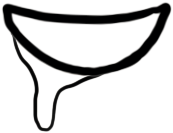
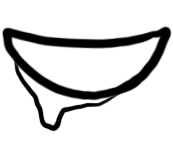
P1: made victoryHamburger get eaten by Fwoggy when inside its mouth

diff --git a/projects/project1/js/Fwoggies/VictoryFwoggy.js b/projects/project1/js/Fwoggies/VictoryFwoggy.js
@@ -3,9 +3,12 @@
 class VictoryFwoggy {
   constructor(fwoggyImages, mouthImages) {
     // fwoggy images array (mouthless)
-    this.fwoggyImages = fwoggyImages;
+    this.images = fwoggyImages;
     // index of fwoggy images array
-    this.fwoggyImageIndex = 3;
+    this.imageIndex = 3;
+    // frames elapsed for image animation
+    this.framesElapsed = 0;
+    this.framesBtwEachImage = 20;
     // image size
     this.width = 615;
     this.height = 624;
@@ -18,11 +21,31 @@ class VictoryFwoggy {
       // Fwoggy's mouth images
       images: mouthImages,
       // image index for mouth images
-      imageIndex: 0,
-      // position offset from this.x and this.y
-      xOffset: -10,
-      yOffset: 30,
+      imageIndex: 1,
+      // position
+      x: this.x - 10,
+      y: this.y + 30,
+      // size
+      width: 176,
+      height: 157,
     };
+  }
+
+  // Update all behaviour of fwoggy
+  update(mouse, victoryHamburger) {
+    // Display image
+    this.display();
+
+    // Switch images
+    this.switchImages(mouse, victoryHamburger);
+
+    // if mouth is open and hamburger overlaps with mouth, eat hamburger
+    if (
+      this.mouth.imageIndex === 2 &&
+      this.overlapsWith(victoryHamburger, this.mouth)
+    ) {
+      victoryHamburger.isEaten = true;
+    }
   }
 
   // Reset Fwoggy's variables
@@ -31,10 +54,34 @@ class VictoryFwoggy {
     // this.theta.current = 0;
   }
 
-  // Update all behaviour of fwoggy
-  update(cat) {
-    // Display image
-    this.display();
+  // Swith images depending
+  switchImages(mouse) {
+    // Body animation (does not include mouth)
+    this.framesElapsed++;
+    if (this.framesElapsed === this.framesBtwEachImage) {
+      if (this.imageIndex === 3) {
+        this.imageIndex = 4;
+      } else {
+        this.imageIndex = 3;
+      }
+
+      // Mouth animation
+      // if mouse hovers over body, open the mouth
+      if (this.overlapsWith(mouse, this)) {
+        this.mouth.imageIndex = 2;
+      }
+      // or else, saliva in mouth
+      else {
+        if (this.framesElapsed === this.framesBtwEachImage) {
+          if (this.mouth.imageIndex === 0) {
+            this.mouth.imageIndex = 1;
+          } else {
+            this.mouth.imageIndex = 0;
+          }
+        }
+      }
+      this.framesElapsed = 0;
+    }
   }
 
   // Display Fwoggy
@@ -42,16 +89,26 @@ class VictoryFwoggy {
     push();
     // Fwoggy's body (everything except mouth)
     imageMode(CENTER);
-    image(this.fwoggyImages[this.fwoggyImageIndex], this.x, this.y);
+    image(this.images[this.imageIndex], this.x, this.y);
 
     // Fwoggy's mouth
     imageMode(CENTER);
-    image(
-      this.mouth.images[this.mouth.imageIndex],
-      this.x + this.mouth.xOffset,
-      this.y + this.mouth.yOffset
-    );
+    image(this.mouth.images[this.mouth.imageIndex], this.mouth.x, this.mouth.y);
     pop();
+  }
+
+  // Return true if object1 is inside object 2
+  overlapsWith(object1, object2) {
+    if (
+      object1.x > object2.x - object2.width / 2 &&
+      object1.x < object2.x + object2.width / 2 &&
+      object1.y > object2.y - object2.height / 2 &&
+      object1.y < object2.y + object2.height / 2
+    ) {
+      return true;
+    } else {
+      return false;
+    }
   }
 
   // Does not do anything

diff --git a/projects/project1/js/Hamburgers/VictoryHamburger.js b/projects/project1/js/Hamburgers/VictoryHamburger.js
@@ -6,6 +6,13 @@ class VictoryHamburger {
     this.images = images;
     // current image index
     this.imageIndex = 1;
+    // image scale
+    this.scale = {
+      current: 1,
+      min: 0.1,
+      shrinkSpeed: 0.01,
+      shrinkAcceleration: 0.001,
+    };
     // frames elapsed for image animation
     this.framesElapsed = 0;
     this.framesBtwEachImage = 10;
@@ -19,25 +26,37 @@ class VictoryHamburger {
     // image size
     this.width = 214;
     this.height = 149;
+    // true if hamburger is eaten
+    this.isEaten = false;
   }
 
   // Update all behaviour of hamburger
   update() {
     // Display image
-    this.display();
-
-    // Fly off to hamburger heaven
-    this.fly();
+    if (this.scale.current > this.scale.min) {
+      this.display();
+    }
 
     // Wing flapping animation
     this.flapWings();
+
+    // If hamburger is eaten, make it shrink into victoryFwoggy's mouth
+    if (this.isEaten) {
+      this.shrink();
+    }
+    // Or else, make it fly
+    else {
+      this.fly();
+    }
   }
 
   // Display image
   display() {
     push();
+    translate(this.x, this.y);
     imageMode(CENTER);
-    image(this.images[this.imageIndex], this.x, this.y);
+    scale(this.scale.current);
+    image(this.images[this.imageIndex], 0, 0);
     pop();
   }
 
@@ -66,15 +85,30 @@ class VictoryHamburger {
   // Returns true if hamburger is inside user's mouth
   isInHamburgerHeaven() {
     if (this.y + this.height / 2 < 0) {
-      console.log(true);
       return true;
     } else {
       return false;
     }
   }
 
+  // If hamburger is eaten, make it shrink into victoryFwoggy's mouth
+  shrink() {
+    if (this.scale.current > this.scale.min) {
+      // accelerate shrink speed
+      this.scale.shrinkSpeed += this.scale.shrinkAcceleration;
+
+      // decrease scale with shrink speed
+      this.scale.current -= this.scale.shrinkSpeed;
+    }
+  }
+
   // Reset defeatHamburger's variables
   reset() {
+    console.log(true);
+    // true if hamburger is eaten
+    this.isEaten = false;
+    // scale
+    this.scale.current = 1;
     // position
     this.x = 900;
     this.y = height - 300;

diff --git a/projects/project1/js/script.js b/projects/project1/js/script.js
@@ -20,12 +20,13 @@ Fwoggy faints from shock.
 
 If win --> victory state
 Fwoggy celebrates!
+Feed the hamburger to Fwoggy by hovering over her to open her mouth on queue
 **************************************************/
 "use strict";
 
 // States of program
 // Possible states: intro, learn, game, defeat, victory
-let state = `game`;
+let state = `victory`;
 
 // Text font
 let font;
@@ -1117,7 +1118,7 @@ function victory() {
   logo.update(mouse);
 
   // Update victory Fwoggy
-  victoryFwoggy.update();
+  victoryFwoggy.update(mouse, victoryHamburger);
 
   // Update victory hamburger
   victoryHamburger.update();
